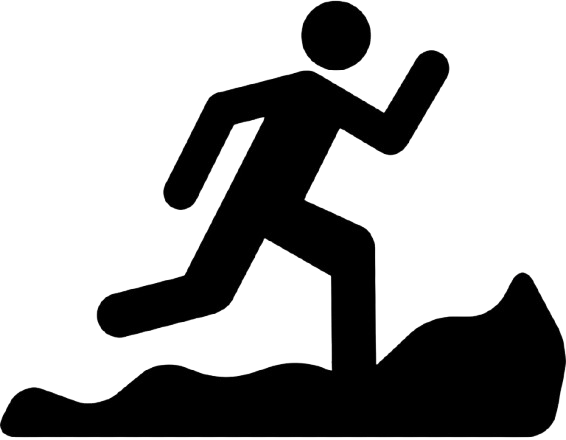
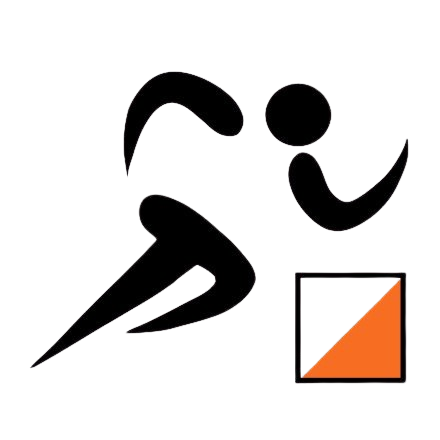
adding runner image to the pages, not sure if is all ok

diff --git a/app/main/templates/team.html b/app/main/templates/team.html
@@ -44,7 +44,7 @@
                         <div class="runner-div">
                             <div class="runner-div-upper" onclick="window.location.href='/runner?runner={{runner.name}}' ">
                                 <div class="runner-image-container">
-                                    <img class="runner-image" src="{{url_for('main.static', filename='logos/faceless-icon.jpg')}}" alt="faceless logo">
+                                    <img class="runner-image" src="{{url_for('main.static', filename='runner/' ~ runner['image'] ~ '.png')}}" alt="runner-icon">
                                 </div>
                                 <div class="runner-middle-container">
                                     <div class="runner-middle-upper">
@@ -97,7 +97,7 @@
                                 <div class="runner-div">
                                     <div class="runner-div-upper">
                                         <div class="runner-image-container">
-                                            <img class="runner-image" src="{{url_for('main.static', filename='logos/faceless-icon.jpg')}}" alt="faceless logo">
+                                            <img class="runner-image" src="{{url_for('main.static', filename='runner/' ~ runner['image'] ~ '.png')}}" alt="runner-icon">
                                         </div>
                                         <div class="runner-middle-container">
                                             <div class="runner-middle-upper">
@@ -114,7 +114,7 @@
                                 <div class="runner-div">
                                     <div class="runner-div-upper">
                                         <div class="runner-image-container">
-                                            <img class="runner-image" src="{{url_for('main.static', filename='logos/faceless-icon.jpg')}}" alt="faceless logo">
+                                            <img class="runner-image" src="{{url_for('main.static', filename='user/unknown_user.png')}}" alt="faceless logo">
                                         </div>
                                         <div class="runner-middle-container">
                                             <div class="runner-middle-upper">
@@ -138,7 +138,7 @@
                                 <div class="runner-div">
                                     <div class="runner-div-upper">
                                         <div class="runner-image-container">
-                                            <img class="runner-image" src="{{url_for('main.static', filename='logos/faceless-icon.jpg')}}" alt="faceless logo">
+                                            <img class="runner-image" src="{{url_for('main.static', filename='runner/' ~ runner['image'] ~ '.png')}}" alt="runner-icon">
                                         </div>
                                         <div class="runner-middle-container">
                                             <div class="runner-middle-upper">
@@ -179,7 +179,7 @@
                                 <div class="runner-div">
                                     <div class="runner-div-upper">
                                         <div class="runner-image-container">
-                                            <img class="runner-image" src="{{url_for('main.static', filename='logos/faceless-icon.jpg')}}" alt="faceless logo">
+                                            <img class="runner-image" src="{{url_for('main.static', filename='runner/' ~ runner['image'] ~ '.png')}}" alt="runner-icon">
                                         </div>
                                         <div class="runner-middle-container">
                                             <div class="runner-middle-upper">
@@ -238,7 +238,7 @@
                         </form>
                         <div class="runner-div-upper">
                             <div class="runner-image-container">
-                                <img class="runner-image" src="{{url_for('main.static', filename='logos/faceless-icon.jpg')}}" alt="faceless logo">
+                                <img class="runner-image" src="{{url_for('main.static', filename='runner/' ~ runner['image'] ~ '.png')}}" alt="runner-icon">
                             </div>
                             <div class="runner-middle-container">
                                 <div class="runner-middle-upper">

diff --git a/app/main/templates/market.html b/app/main/templates/market.html
@@ -51,7 +51,7 @@
                                 <div class="runner-div">
                                     <div class="runner-div-upper" onclick="window.location.href='/runner?runner={{runner.name}}' ">
                                         <div class="runner-image-container">
-                                            <img class="runner-image" src="{{url_for('main.static', filename='runner/' ~ runner['image'])}}" alt="runner-icon">
+                                            <img class="runner-image" src="{{url_for('main.static', filename='runner/' ~ runner['image'] ~ '.png')}}" alt="runner-icon">
                                         </div>
                                         <div class="runner-middle-container">
                                             <div class="runner-middle-upper">
@@ -127,7 +127,7 @@
                         <div class="runner-div">
                             <div class="runner-div-upper" onclick="window.location.href='/runner?runner={{runner.name}}' ">
                                 <div class="runner-image-container">
-                                    <img class="runner-image" src="{{url_for('main.static', filename='logos/faceless-icon.jpg')}}" alt="faceless logo">
+                                    <img class="runner-image" src="{{url_for('main.static', filename='runner/' ~ runner['image'] ~ '.png')}}" alt="runner-icon">
                                 </div>
                                 <div class="runner-middle-container">
                                     <div class="runner-middle-upper">
@@ -264,7 +264,7 @@
                     <div id="sell-div" class="runner-div">
                         <div class="runner-div-upper">
                             <div class="runner-image-container">
-                                <img class="runner-image" src="{{url_for('main.static', filename='logos/faceless-icon.jpg')}}" alt="faceless logo">
+                                <img class="runner-image" src="{{url_for('main.static', filename='runner/' ~ runner['image'] ~ '.png')}}" alt="runner-icon">
                             </div>
                             <div class="runner-middle-container">
                                 <div class="runner-middle-upper">

diff --git a/app/main/static/desktop.css b/app/main/static/desktop.css
@@ -40,6 +40,8 @@
     --orunner-info-font-size: 3vmin;
     --orunner-description-font-size: 2vmin;
     --point-graph-width: 1vw;
+    --orunner-border-radius: 0%;
+    --runner-image-border-radius: 0%;
 }
 
 @import url('https://fonts.googleapis.com/css2?family=Oswald:wght@400;700&family=Roboto:wght@300;400;700&display=swap');
@@ -472,7 +474,7 @@ nav.active {
     aspect-ratio: 1/1;
     border-radius: 0;
     object-fit: cover;
-    border-radius: 50%;
+    border-radius: var(--runner-image-border-radius);
 }
 
 .runner-image.society {
@@ -824,7 +826,7 @@ nav.active {
     height: var(--orunner-image-size);
     aspect-ratio: 1/1;
     object-fit: cover;
-    border-radius: 50%;
+    border-radius: var(--orunner-border-radius);
     margin-top: 3vh;
 }
 

diff --git a/app/main/routes.py b/app/main/routes.py
@@ -275,9 +275,9 @@ def market():
         if runner.selling:
             full_details = runner.runner
             if full_details.has_image:
-                image_address = f"{full_details.name}.png"
+                image_address = f"{full_details.name}"
             else:
-                image_address = "unknown_runner.jpg"
+                image_address = "unknown_runner"
 
             selling_runner = {
                 "name": full_details.name,
@@ -313,9 +313,9 @@ def market():
 
         full_details = runner.runner
         if full_details.has_image:
-            image_address = f"{full_details.name}.png"
+            image_address = f"{full_details.name}"
         else:
-            image_address = "unknown_runner.jpg"
+            image_address = "unknown_runner"
         append_runner = {
             "name": full_details.name,
             "society": full_details.society,
@@ -336,9 +336,9 @@ def market():
     for runner in owned_runners:
         full_details = runner.runner
         if full_details.has_image:
-            image_address = f"{full_details.name}.png"
+            image_address = f"{full_details.name}"
         else:
-            image_address = "unknown_runner.jpg"
+            image_address = "unknown_runner"
         sellable_runner = {
             "name": full_details.name,
             "society": full_details.society,
@@ -357,9 +357,10 @@ def market():
         if runner.selling:
             full_details = runner.runner
             if full_details.has_image:
-                image_address = f"{full_details.name}.png"
+                image_address = f"{full_details.name}"
             else:
-                image_address = "unknown_runner.jpg"
+                image_address = "unknown_runner"
+
             buyer_nickname = User.query.filter_by(username=runner.buyer).first().nickname if runner.buyer else None
             selling_runner = {
                 "name": full_details.name,
@@ -454,13 +455,20 @@ def team():
     runners_database_list = []
     for runner in player_runners:
         full_details = runner.runner
+
+        if full_details.has_image:
+            image_address = f"{full_details.name}"
+        else:
+            image_address = "unknown_runner"
+
         append_runner = {
             "name": full_details.name,
             "society": full_details.society,
             "category": full_details.category,
             "points": full_details.points,
             "price": full_details.price,
-            "lineup": runner.lineup
+            "lineup": runner.lineup,
+            "image": image_address,
         }
         runners_database_list.append(append_runner)
 

diff --git a/run.py b/run.py
@@ -32,7 +32,7 @@ with open(league_path, 'r') as file:
 with open(POINTS_PATH, 'r') as file:
     points_table = json.load(file)
 
-migrate=False
+migrate=True
 if migrate:
     with app.app_context():
 
